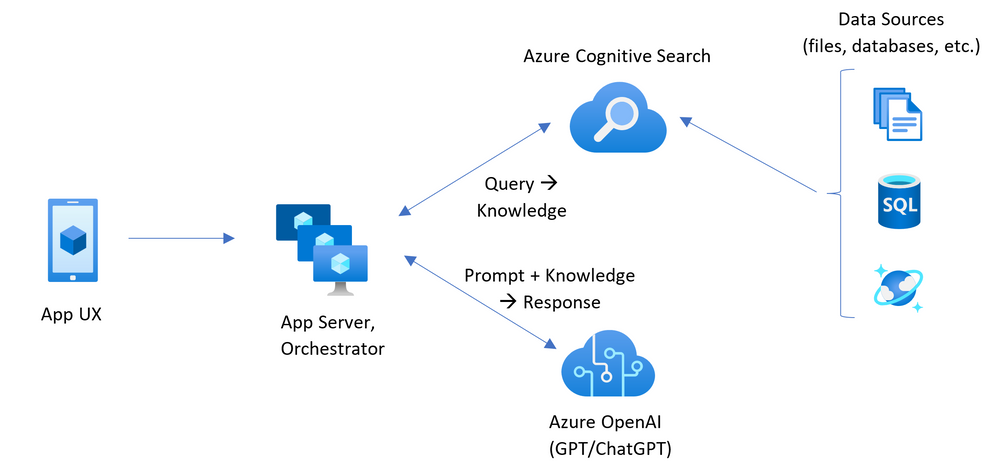
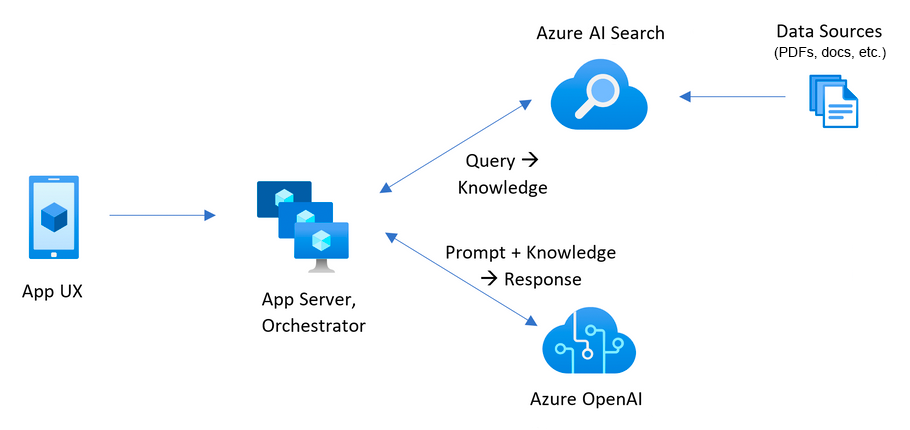
Updated branding to use "Azure AI Search" (#323)
Fixes #321 - updating branding in this sample to use "Azure AI Search"
instead of the older branding of "Azure Cognitive Search"

## Purpose
Updating to use current branding for Azure AI Search.

## Does this introduce a breaking change?
```
[ ] Yes
[x] No
```

## Pull Request Type
What kind of change does this Pull Request introduce?

```
[ ] Bugfix
[ ] Feature
[ ] Code style update (formatting, local variables)
[ ] Refactoring (no functional changes, no api changes)
[x] Documentation content changes
[ ] Other... Please describe:
```

## How to Test
*  Get the code, review README and descriptions in modified files.

diff --git a/app/prepdocs/PrepareDocs/Program.Options.cs b/app/prepdocs/PrepareDocs/Program.Options.cs
@@ -21,16 +21,16 @@ internal static partial class Program
         new(name: "--tenantid", description: "Optional. Use this to define the Azure directory where to authenticate)");
 
     private static readonly Option<string> s_searchService =
-        new(name: "--searchendpoint", description: "The Azure Cognitive Search service endpoint where content should be indexed (must exist already)");
+        new(name: "--searchendpoint", description: "The Azure AI Search service endpoint where content should be indexed (must exist already)");
 
     private static readonly Option<string> s_searchIndexName =
-        new(name: "--searchindex", description: "Name of the Azure Cognitive Search index where content should be indexed (will be created if it doesn't exist)");
+        new(name: "--searchindex", description: "Name of the Azure AI Search index where content should be indexed (will be created if it doesn't exist)");
 
     private static readonly Option<string> s_azureOpenAIService =
         new(name: "--openaiendpoint", description: "Optional. The Azure OpenAI service endpoint which will be used to extract text, tables and layout from the documents (must exist already)");
 
     private static readonly Option<string> s_embeddingModelName =
-        new(name: "--embeddingmodel", description: "Optional. Name of the Azure Cognitive Search embedding model to use for embedding content in the search index (will be created if it doesn't exist)");
+        new(name: "--embeddingmodel", description: "Optional. Name of the Azure AI Search embedding model to use for embedding content in the search index (will be created if it doesn't exist)");
 
     private static readonly Option<bool> s_remove =
        new(name: "--remove", description: "Remove references to this document from blob storage and the search index");

diff --git a/app/shared/Shared/EmbeddingType.cs b/app/shared/Shared/EmbeddingType.cs
@@ -5,7 +5,7 @@ namespace Shared;
 public enum EmbeddingType
 {
     /// <summary>
-    /// Embed using Azure Cognitive Search (Vector).
+    /// Embed using Azure AI Search (Vector).
     /// See <a href='https://learn.microsoft.com/azure/search/vector-search-overview'>https://learn.microsoft.com/azure/search/vector-search-overview</a>
     /// </summary>
     AzureSearch = 0,

diff --git a/README.md b/README.md
@@ -56,11 +56,11 @@ description: A csharp sample app that chats with your data using OpenAI and AI S
 [![Open in GitHub - Codespaces](https://img.shields.io/static/v1?style=for-the-badge&label=GitHub+Codespaces&message=Open&color=brightgreen&logo=github)](https://github.com/codespaces/new?hide_repo_select=true&ref=main&repo=624102171&machine=standardLinux32gb&devcontainer_path=.devcontainer%2Fdevcontainer.json&location=WestUs2)
 [![Open in Remote - Containers](https://img.shields.io/static/v1?style=for-the-badge&label=Remote%20-%20Containers&message=Open&color=blue&logo=visualstudiocode)](https://vscode.dev/redirect?url=vscode://ms-vscode-remote.remote-containers/cloneInVolume?url=https://github.com/azure-samples/azure-search-openai-demo-csharp)
 
-This sample demonstrates a few approaches for creating ChatGPT-like experiences over your own data using the Retrieval Augmented Generation pattern. It uses Azure OpenAI Service to access the ChatGPT model (`gpt-35-turbo`), and Azure Cognitive Search for data indexing and retrieval.
+This sample demonstrates a few approaches for creating ChatGPT-like experiences over your own data using the Retrieval Augmented Generation pattern. It uses Azure OpenAI Service to access the ChatGPT model (`gpt-35-turbo`), and Azure AI Search for data indexing and retrieval.
 
 The repo includes sample data so it's ready to try end-to-end. In this sample application, we use a fictitious company called Contoso Electronics, and the experience allows its employees to ask questions about the benefits, internal policies, as well as job descriptions and roles.
 
-![RAG Architecture](docs/appcomponents-version-4.png)
+![RAG Architecture](docs/appcomponents.png)
 
 For more details on how this application was built, check out:
 
@@ -84,7 +84,7 @@ We want to hear from you! Are you interested in building or currently building i
 
 - **User interface** - The application’s chat interface is a [Blazor WebAssembly](https://learn.microsoft.com/aspnet/core/blazor/) application. This interface is what accepts user queries, routes request to the application backend, and displays generated responses.
 - **Backend** - The application backend is an [ASP.NET Core Minimal API](https://learn.microsoft.com/aspnet/core/fundamentals/minimal-apis/overview). The backend hosts the Blazor static web application and what orchestrates the interactions among the different services. Services used in this application include:
-   - [**Azure Cognitive Search**](https://learn.microsoft.com/azure/search/search-what-is-azure-search) – indexes documents from the data stored in an Azure Storage Account. This makes the documents searchable using [vector search](https://learn.microsoft.com/azure/search/search-get-started-vector) capabilities. 
+   - [**Azure AI Search**](https://learn.microsoft.com/azure/search/search-what-is-azure-search) – indexes documents from the data stored in an Azure Storage Account. This makes the documents searchable using [vector search](https://learn.microsoft.com/azure/search/search-get-started-vector) capabilities. 
    - [**Azure OpenAI Service**](https://learn.microsoft.com/azure/ai-services/openai/overview) – provides the Large Language Models to generate responses. [Semantic Kernel](https://learn.microsoft.com/semantic-kernel/whatissk) is used in conjunction with the Azure OpenAI Service to orchestrate the more complex AI workflows.
 
 ## Getting Started
@@ -99,7 +99,7 @@ In order to deploy and run this example, you'll need
 
 
 > [!WARNING]<br>
-> By default this sample will create an Azure Container App, and Azure Cognitive Search resource that have a monthly cost, as well as Form Recognizer resource that has cost per document page. You can switch them to free versions of each of them if you want to avoid this cost by changing the parameters file under the infra folder (though there are some limits to consider; for example, you can have up to 1 free Cognitive Search resource per subscription, and the free Form Recognizer resource only analyzes the first 2 pages of each document.)
+> By default this sample will create an Azure Container App, and Azure AI Search resource that have a monthly cost, as well as Form Recognizer resource that has cost per document page. You can switch them to free versions of each of them if you want to avoid this cost by changing the parameters file under the infra folder (though there are some limits to consider; for example, you can have up to 1 free Cognitive Search resource per subscription, and the free Form Recognizer resource only analyzes the first 2 pages of each document.)
 
 ### Cost estimation
 
@@ -108,7 +108,7 @@ Pricing varies per region and usage, so it isn't possible to predict exact costs
 - [**Azure Container Apps**](https://azure.microsoft.com/pricing/details/container-apps/)
 - [**Azure OpenAI Service**](https://azure.microsoft.com/pricing/details/cognitive-services/openai-service/)
 - [**Azure Form Recognizer**](https://azure.microsoft.com/pricing/details/form-recognizer/)
-- [**Azure Cognitive Search**](https://azure.microsoft.com/pricing/details/search/)
+- [**Azure AI Search**](https://azure.microsoft.com/pricing/details/search/)
 - [**Azure Blob Storage**](https://azure.microsoft.com/pricing/details/storage/blobs/)
 - [**Azure Monitor**](https://azure.microsoft.com/pricing/details/monitor/)
 
@@ -344,7 +344,7 @@ to production. Here are some things to consider:
 
 * **OpenAI Capacity**: The default TPM (tokens per minute) is set to 30K. That is equivalent to approximately 30 conversations per minute (assuming 1K per user message/response). You can increase the capacity by changing the `chatGptDeploymentCapacity` and `embeddingDeploymentCapacity` parameters in `infra/main.bicep` to your account's maximum capacity. You can also view the Quotas tab in [Azure OpenAI studio](https://oai.azure.com/) to understand how much capacity you have.
 * **Azure Storage**: The default storage account uses the `Standard_LRS` SKU. To improve your resiliency, we recommend using `Standard_ZRS` for production deployments, which you can specify using the `sku` property under the `storage` module in `infra/main.bicep`.
-* **Azure Cognitive Search**: If you see errors about search service capacity being exceeded, you may find it helpful to increase the number of replicas by changing `replicaCount` in `infra/core/search/search-services.bicep` or manually scaling it from the Azure Portal.
+* **Azure AI Search**: If you see errors about search service capacity being exceeded, you may find it helpful to increase the number of replicas by changing `replicaCount` in `infra/core/search/search-services.bicep` or manually scaling it from the Azure Portal.
 * **Azure Container Apps**: By default, this application deploys containers with 0.5 CPU Cores and 1GB of memory. The minimum replicas is 1 and maximum 10. For this app, you can set values such as `containerCpuCoreCount`, `containerMaxReplicas `, `containerMemory`, `containerMinReplicas` in the `infra/core/host/container-app.bicep` file to fit your needs. You can use auto-scaling rules or scheduled scaling rules, and scale up the [maximum/minimum](https://learn.microsoft.com/azure/container-apps/scale-app) based on load.
 * **Authentication**: By default, the deployed app is publicly accessible. We recommend restricting access to authenticated users. See [Enabling authentication](#enabling-authentication) above for how to enable authentication.
 * **Networking**: We recommend deploying inside a Virtual Network. If the app is only for internal enterprise use, use a private DNS zone. Also consider using Azure API Management (APIM) for firewalls and other forms of protection. For more details, read [Azure OpenAI Landing Zone reference architecture](https://techcommunity.microsoft.com/t5/azure-architecture-blog/azure-openai-landing-zone-reference-architecture/ba-p/3882102).
@@ -353,7 +353,7 @@ to production. Here are some things to consider:
 ## Resources
 
 - [Revolutionize your Enterprise Data with ChatGPT: Next-gen Apps w/ Azure OpenAI and Cognitive Search](https://aka.ms/entgptsearchblog)
-- [Azure Cognitive Search](https://learn.microsoft.com/azure/search/search-what-is-azure-search)
+- [Azure AI Search](https://learn.microsoft.com/azure/search/search-what-is-azure-search)
 - [Azure OpenAI Service](https://learn.microsoft.com/azure/cognitive-services/openai/overview)
 - [`Azure.AI.OpenAI` NuGet package](https://www.nuget.org/packages/Azure.AI.OpenAI)
 - [Original Blazor App](https://github.com/IEvangelist/blazor-azure-openai)
@@ -363,6 +363,6 @@ to production. Here are some things to consider:
 
 ### FAQ
 
-**_Question_**: Why do we need to break up the PDFs into chunks when Azure Cognitive Search supports searching large documents?
+**_Question_**: Why do we need to break up the PDFs into chunks when Azure AI Search supports searching large documents?
 
 **_Answer_**: Chunking allows us to limit the amount of information we send to OpenAI due to token limits. By breaking up the content, it allows us to easily find potential chunks of text that we can inject into OpenAI. The method of chunking we use leverages a sliding window of text such that sentences that end one chunk will start the next. This allows us to reduce the chance of losing the context of the text.
